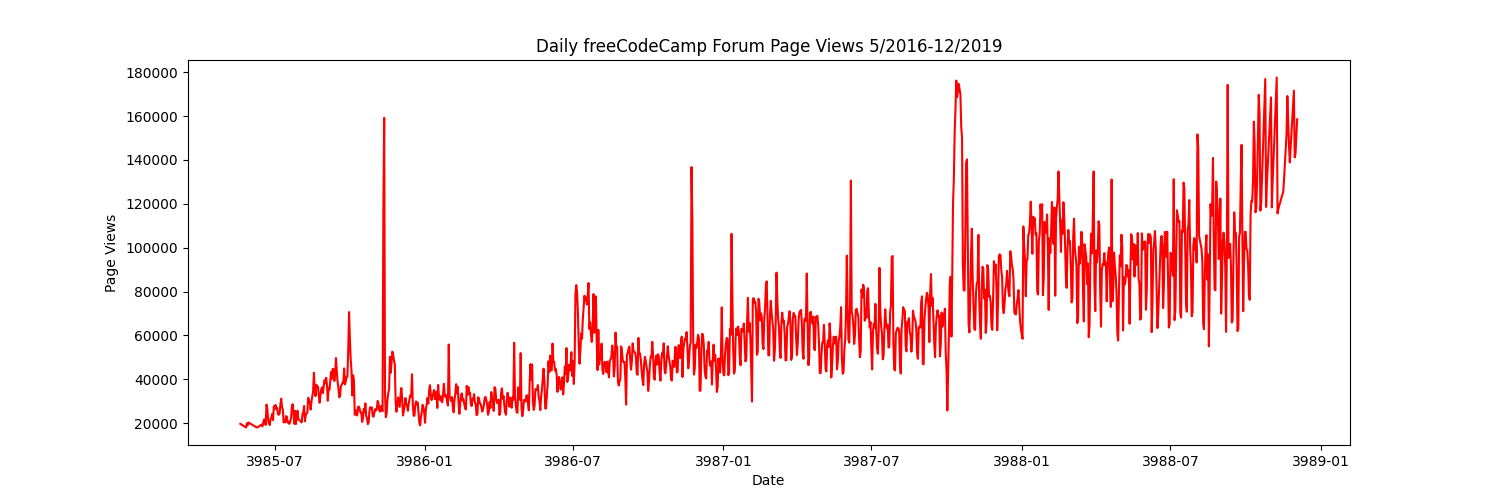
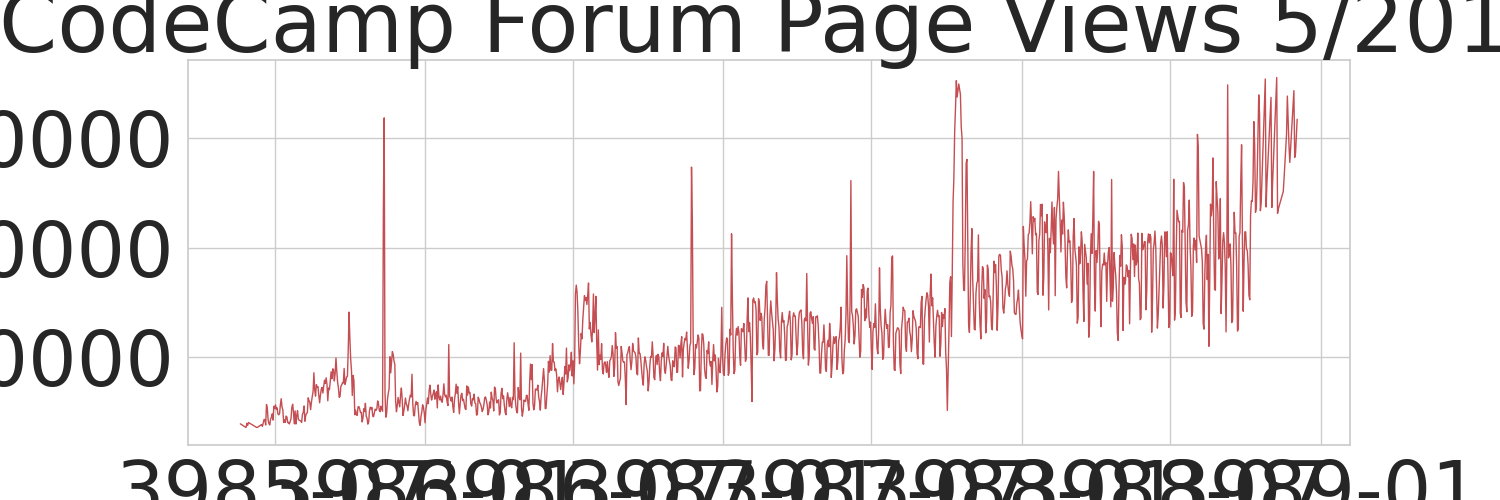
A lot of changes were made and now the project is basically done. Used information from different sources to fulfil the purpose of this project

diff --git a/time_series_visualizer.py b/time_series_visualizer.py
@@ -4,19 +4,17 @@ import seaborn as sns
 import numpy as np
 from pandas.plotting import register_matplotlib_converters
 register_matplotlib_converters()
-import sys
 
 # Import data (Make sure to parse dates. Consider setting index column to 'date'.)
 df=pd.read_csv('fcc-forum-pageviews.csv')
-print(df)
+# print(df)
 
 df.set_index('date', drop=True, inplace=True)
 df.index=[pd.Timestamp(dt) for dt in df.index]
-# print(df.index)
 
 # Clean data
 df = df[(df['value'] >= df['value'].quantile(0.025)) & (df['value'] <= df['value'].quantile(0.975))]
-print(df)
+# print(df)
 
 def draw_line_plot():
   # Draw line plot
@@ -25,7 +23,7 @@ def draw_line_plot():
   fig.set_figwidth(15)
   fig.set_figheight(5)
 
-  plt.plot(df.index, df['value'], color='r')
+  plt.plot(df.index, df['value'], color='r', linewidth=1)
 
   plt.title('Daily freeCodeCamp Forum Page Views 5/2016-12/2019')
 
@@ -36,51 +34,66 @@ def draw_line_plot():
   fig.savefig('line_plot.png')
   return fig
 
+
 def draw_bar_plot():
   # Copy and modify data for monthly bar plot
   df_bar = df.copy()
+  
+  df_bar['Date'] = df_bar.index
+  df_bar['Year'] = df_bar['Date'].map(lambda x: x.strftime('%Y'))
+  df_bar['Month'] = df_bar['Date'].map(lambda x: x.strftime('%B'))
+  df_bar = pd.DataFrame({'Average Page Views': df_bar.groupby(['Year','Month'])['value'].mean()}).reset_index().sort_values(['Year', 'Month'], ascending=[1,1])
 
   # Draw bar plot
   month_label = ["January", "February", "March", "April", "May", "June", "July", "August", "September", "October", "November", "December"]
-  year_label = [2016, 2017, 2018, 2019]
-  months = np.zeros([len(month_label), len(year_label)])
 
-  for i in range(len(month_label)):
-      for j, year in enumerate(year_label):
-          t = df[df.index.year == year]
-          months[i][j] = t[t.index.month == i].value.mean()
+  fig, ax = plt.subplots(figsize=(20,15))
 
-  x = np.arange(len(year_label))
-  fig, ax = plt.subplots()
-  fig.set_figwidth(12)
-  fig.set_figheight(10)
-  for i, month in enumerate(months):
-      ax.bar(x - (0.5 * (len(month_label) - i) / len(month_label)), months[i], 0.5/len(month_label), label=month_label[i], fontsize='14')
-
+  bar_plot = sns.barplot(x='Year', y='Average Page Views', palette="deep", hue='Month', hue_order=month_label, data=df_bar)
+  
+  ax.set_ylabel("Average Page Views", fontsize='24')
+  ax.set_xlabel("Years", fontsize='24')
+  ax.legend(loc=2, fontsize='24') 
+  
+  ax.tick_params(axis='both', which='major', labelsize=24)
   plt.xticks(rotation=90, horizontalalignment="center")
-  ax.set_ylabel("Average Page Views", fontsize='14')
-  ax.set_xlabel("Years", fontsize='14')
-  ax.set_xticks(x)
-  ax.set_xticklabels(year_label, fontsize='14')
-  ax.legend(title='Months', loc=2, fontsize='14')
+  sns.set(style="whitegrid", font_scale=5)
   
   # Save image and return fig (don't change this part)
   fig.savefig('bar_plot.png')
   return fig
 
 def draw_box_plot():
-  sys.exit()
   # Prepare data for box plots (this part is done!)
   df_box = df.copy()
+  df_box['date'] = df_box.index
   df_box.reset_index(inplace=True)
   df_box['year'] = [d.year for d in df_box.date]
   df_box['month'] = [d.strftime('%b') for d in df_box.date]
 
   # Draw box plots (using Seaborn)
 
+  df_box['smonth'] = [d.strftime('%m') for d in df_box.date]
 
+  df_box = df_box.sort_values(by='smonth')
 
+  fig, axes = plt.subplots(1, 2)
+  fig.set_figwidth(18)
+  fig.set_figheight(6)
 
+  axes[0].set_title("Year-wise Box Plot (Trend)", fontsize='16')
+  axes[1].set_title("Month-wise Box Plot (Seasonality)", fontsize='16')
+
+  axes[0] = sns.boxplot(x=df_box.year, y=df_box.value, ax=axes[0])
+  axes[0].set_xlabel('Year', fontsize='10')
+  axes[0].set_ylabel('Page Views', fontsize='10')
+
+  axes[1] = sns.boxplot(x="month", y="value", data=df_box, ax=axes[1])
+  axes[1].set_xlabel('Month', fontsize='10')
+  axes[1].set_ylabel('Page Views', fontsize='10')
+  
+  axes[0].tick_params(axis='both', which='major', labelsize=14)
+  axes[1].tick_params(axis='both', which='major', labelsize=14)
 
   # Save image and return fig (don't change this part)
   fig.savefig('box_plot.png')
